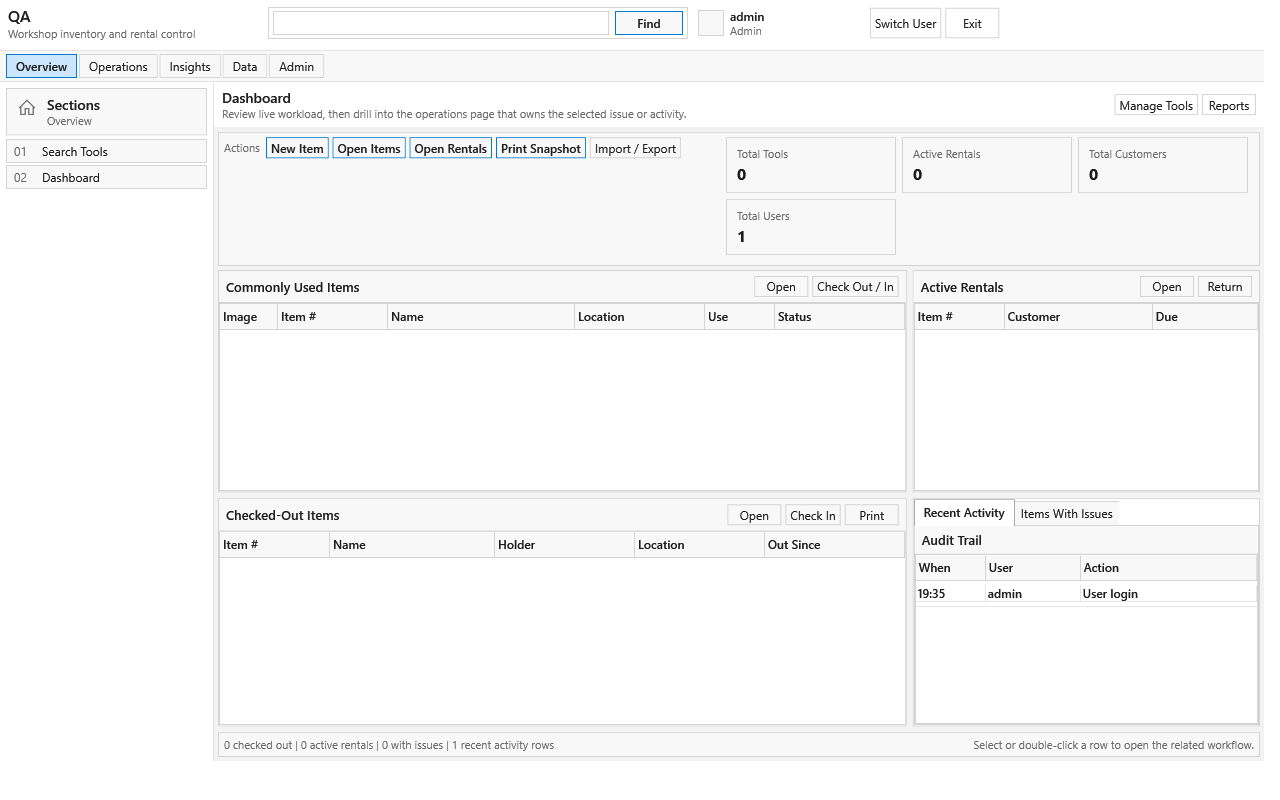
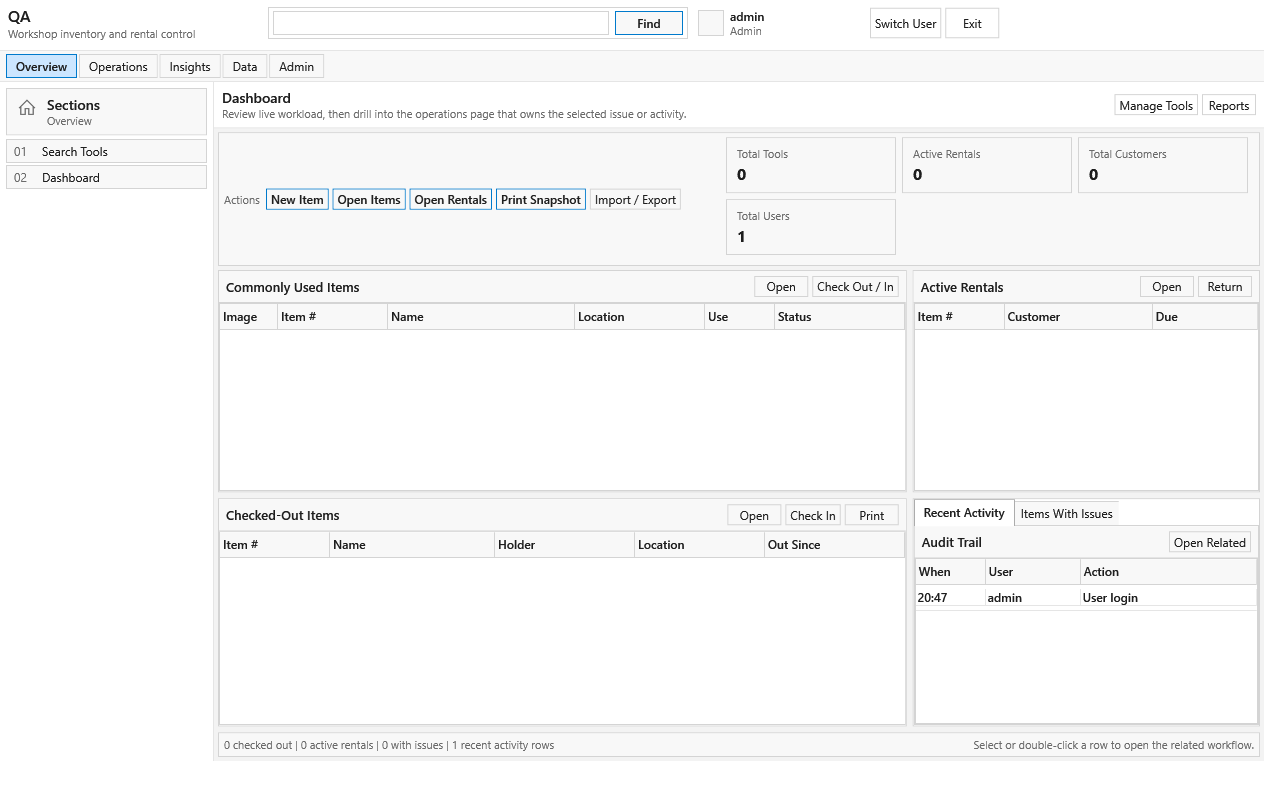
screen shots

Changed region(s): [[0.1875, 0.1562, 0.5312, 0.2812], [0.7188, 0.6562, 0.9688, 0.7812], [0.9062, 0.6562, 0.9688, 0.7188]]

diff --git a/.qa-screenshots/latest/index.html b/.qa-screenshots/latest/index.html
@@ -9,7 +9,7 @@ body{margin:0;font-family:Segoe UI,Arial,sans-serif;background:#f5f7fa;color:#17
 </style>
 </head>
 <body>
-<header><h1>QA Screenshot Review</h1><p>Generated 2026-06-17 19:36:26 | 76 captures | minimum 640 x 360 px and 1024 bytes</p></header>
+<header><h1>QA Screenshot Review</h1><p>Generated 2026-06-17 20:47:45 | 76 captures | minimum 640 x 360 px and 1024 bytes</p></header>
 <main>
 <section class="review"><h2>Visual and workflow checklist</h2><ul>
 <li>Header, search, and signed-in user controls wrap without overlapping or clipping.</li>
@@ -46,15 +46,15 @@ body{margin:0;font-family:Segoe UI,Arial,sans-serif;background:#f5f7fa;color:#17
 </figure>
 <figure>
 <img src="01-overview/04-dashboard-summary.png" alt="01-overview\04-dashboard-summary.png">
-<figcaption><code>01-overview\04-dashboard-summary.png</code><span class="meta">1280x800, 55911 bytes</span></figcaption>
+<figcaption><code>01-overview\04-dashboard-summary.png</code><span class="meta">1280x800, 56788 bytes</span></figcaption>
 </figure>
 <figure>
 <img src="01-overview/05-dashboard-recent-activity.png" alt="01-overview\05-dashboard-recent-activity.png">
-<figcaption><code>01-overview\05-dashboard-recent-activity.png</code><span class="meta">1280x800, 55911 bytes</span></figcaption>
+<figcaption><code>01-overview\05-dashboard-recent-activity.png</code><span class="meta">1280x800, 56788 bytes</span></figcaption>
 </figure>
 <figure>
 <img src="01-overview/06-dashboard-items-with-issues.png" alt="01-overview\06-dashboard-items-with-issues.png">
-<figcaption><code>01-overview\06-dashboard-items-with-issues.png</code><span class="meta">1280x800, 55135 bytes</span></figcaption>
+<figcaption><code>01-overview\06-dashboard-items-with-issues.png</code><span class="meta">1280x800, 55222 bytes</span></figcaption>
 </figure>
 </div>
 </section>
@@ -67,7 +67,7 @@ body{margin:0;font-family:Segoe UI,Arial,sans-serif;background:#f5f7fa;color:#17
 </figure>
 <figure>
 <img src="02-operations/02-rentals.png" alt="02-operations\02-rentals.png">
-<figcaption><code>02-operations\02-rentals.png</code><span class="meta">1280x800, 81716 bytes</span></figcaption>
+<figcaption><code>02-operations\02-rentals.png</code><span class="meta">1280x800, 80615 bytes</span></figcaption>
 </figure>
 <figure>
 <img src="02-operations/03-customers.png" alt="02-operations\03-customers.png">
@@ -75,11 +75,11 @@ body{margin:0;font-family:Segoe UI,Arial,sans-serif;background:#f5f7fa;color:#17
 </figure>
 <figure>
 <img src="02-operations/04-maintenance.png" alt="02-operations\04-maintenance.png">
-<figcaption><code>02-operations\04-maintenance.png</code><span class="meta">1280x800, 78492 bytes</span></figcaption>
+<figcaption><code>02-operations\04-maintenance.png</code><span class="meta">1280x800, 77858 bytes</span></figcaption>
 </figure>
 <figure>
 <img src="02-operations/05-calibration.png" alt="02-operations\05-calibration.png">
-<figcaption><code>02-operations\05-calibration.png</code><span class="meta">1280x800, 75928 bytes</span></figcaption>
+<figcaption><code>02-operations\05-calibration.png</code><span class="meta">1280x800, 75276 bytes</span></figcaption>
 </figure>
 <figure>
 <img src="02-operations/06-reservations.png" alt="02-operations\06-reservations.png">
@@ -104,7 +104,7 @@ body{margin:0;font-family:Segoe UI,Arial,sans-serif;background:#f5f7fa;color:#17
 </figure>
 <figure>
 <img src="03-insights/02-activity-logs.png" alt="03-insights\02-activity-logs.png">
-<figcaption><code>03-insights\02-activity-logs.png</code><span class="meta">1280x800, 45415 bytes</span></figcaption>
+<figcaption><code>03-insights\02-activity-logs.png</code><span class="meta">1280x800, 68026 bytes</span></figcaption>
 </figure>
 </div>
 </section>
@@ -195,7 +195,7 @@ body{margin:0;font-family:Segoe UI,Arial,sans-serif;background:#f5f7fa;color:#17
 </figure>
 <figure>
 <img src="06-dialogs/05-item-details.png" alt="06-dialogs\05-item-details.png">
-<figcaption><code>06-dialogs\05-item-details.png</code><span class="meta">780x580, 45182 bytes</span></figcaption>
+<figcaption><code>06-dialogs\05-item-details.png</code><span class="meta">780x580, 45180 bytes</span></figcaption>
 </figure>
 <figure>
 <img src="06-dialogs/06-item-edit.png" alt="06-dialogs\06-item-edit.png">

diff --git a/.qa-screenshots/latest/README.md b/.qa-screenshots/latest/README.md
@@ -1,6 +1,6 @@
 # QA Screenshot Run
 
-Generated: 2026-06-17 19:35:43
+Generated: 2026-06-17 20:47:02
 
 Folders:
 - `00-auth` login and authentication flow
@@ -29,19 +29,19 @@ Captured files:
 - 01-overview\01-search-tools-results.png - 1280x800, 53084 bytes
 - 01-overview\02-search-tools-recent-searches.png - 1280x800, 53084 bytes
 - 01-overview\03-search-tools-unavailable-demand.png - 1280x800, 53511 bytes
-- 01-overview\04-dashboard-summary.png - 1280x800, 55911 bytes
-- 01-overview\05-dashboard-recent-activity.png - 1280x800, 55911 bytes
-- 01-overview\06-dashboard-items-with-issues.png - 1280x800, 55135 bytes
+- 01-overview\04-dashboard-summary.png - 1280x800, 56788 bytes
+- 01-overview\05-dashboard-recent-activity.png - 1280x800, 56788 bytes
+- 01-overview\06-dashboard-items-with-issues.png - 1280x800, 55222 bytes
 - 02-operations\01-manage-tools.png - 1280x800, 41319 bytes
-- 02-operations\02-rentals.png - 1280x800, 81716 bytes
+- 02-operations\02-rentals.png - 1280x800, 80615 bytes
 - 02-operations\03-customers.png - 1280x800, 70289 bytes
-- 02-operations\04-maintenance.png - 1280x800, 78492 bytes
-- 02-operations\05-calibration.png - 1280x800, 75928 bytes
+- 02-operations\04-maintenance.png - 1280x800, 77858 bytes
+- 02-operations\05-calibration.png - 1280x800, 75276 bytes
 - 02-operations\06-reservations.png - 1280x800, 74491 bytes
 - 02-operations\07-kits.png - 1280x800, 74661 bytes
 - 02-operations\08-categories.png - 1280x800, 82745 bytes
 - 03-insights\01-reports.png - 1280x800, 50766 bytes
-- 03-insights\02-activity-logs.png - 1280x800, 45415 bytes
+- 03-insights\02-activity-logs.png - 1280x800, 68026 bytes
 - 04-data\01-import-export-overview.png - 1280x800, 77176 bytes
 - 04-data\02-import-export-item-data.png - 1280x800, 57202 bytes
 - 04-data\03-import-export-customers.png - 1280x800, 55071 bytes
@@ -60,7 +60,7 @@ Captured files:
 - 06-dialogs\02-info-dialog.png - 720x420, 6967 bytes
 - 06-dialogs\03-confirm-dialog.png - 720x420, 5980 bytes
 - 06-dialogs\04-input-dialog.png - 720x420, 5389 bytes
-- 06-dialogs\05-item-details.png - 780x580, 45182 bytes
+- 06-dialogs\05-item-details.png - 780x580, 45180 bytes
 - 06-dialogs\06-item-edit.png - 760x820, 27854 bytes
 - 06-dialogs\07-customer-edit.png - 720x420, 10604 bytes
 - 06-dialogs\08-rental-history.png - 1120x640, 27880 bytes
